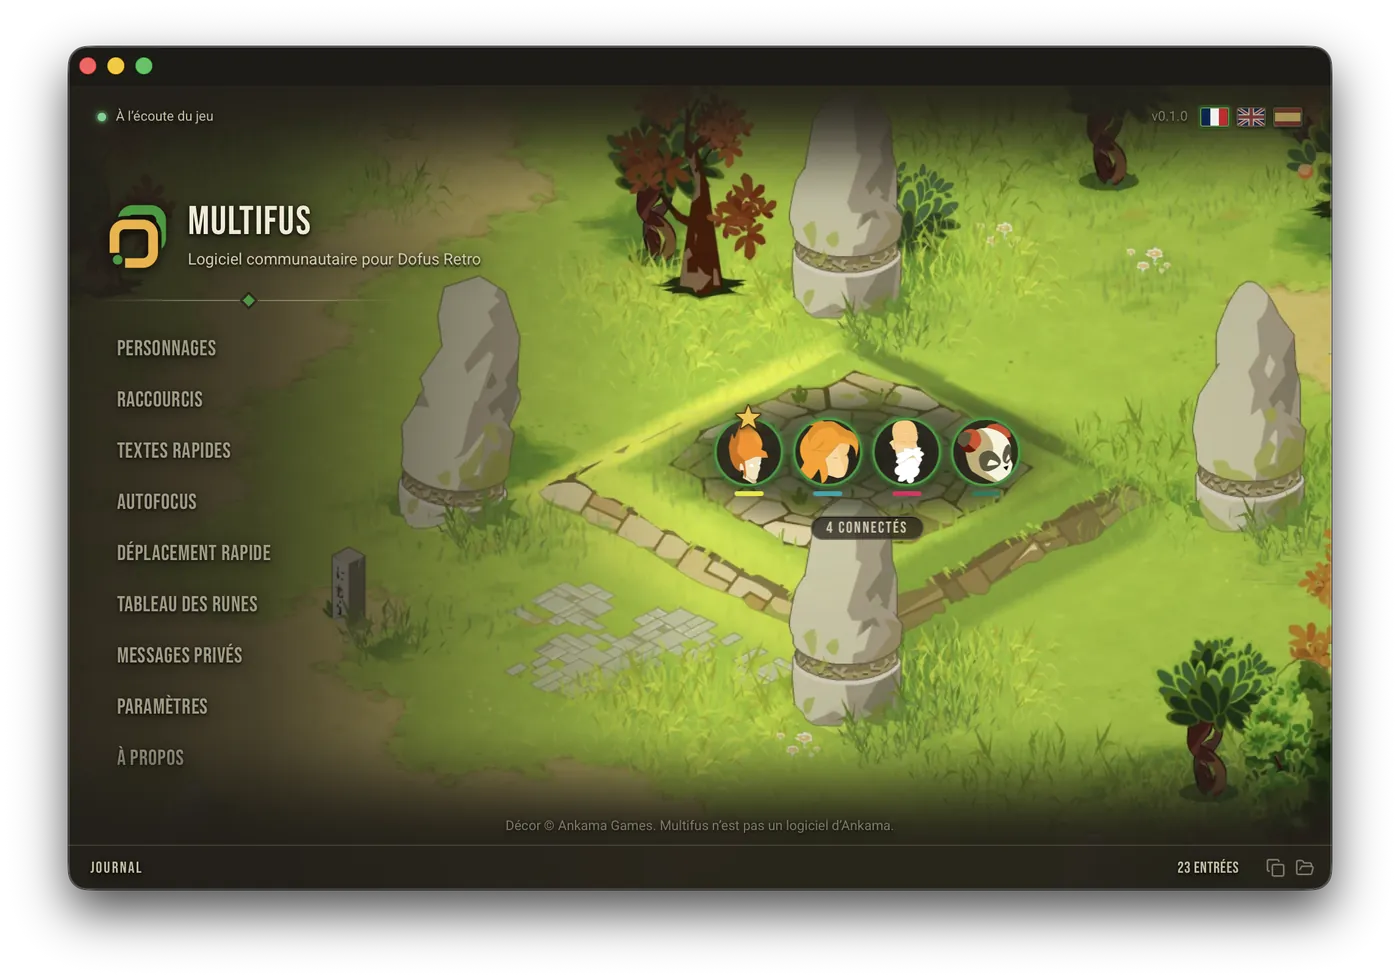
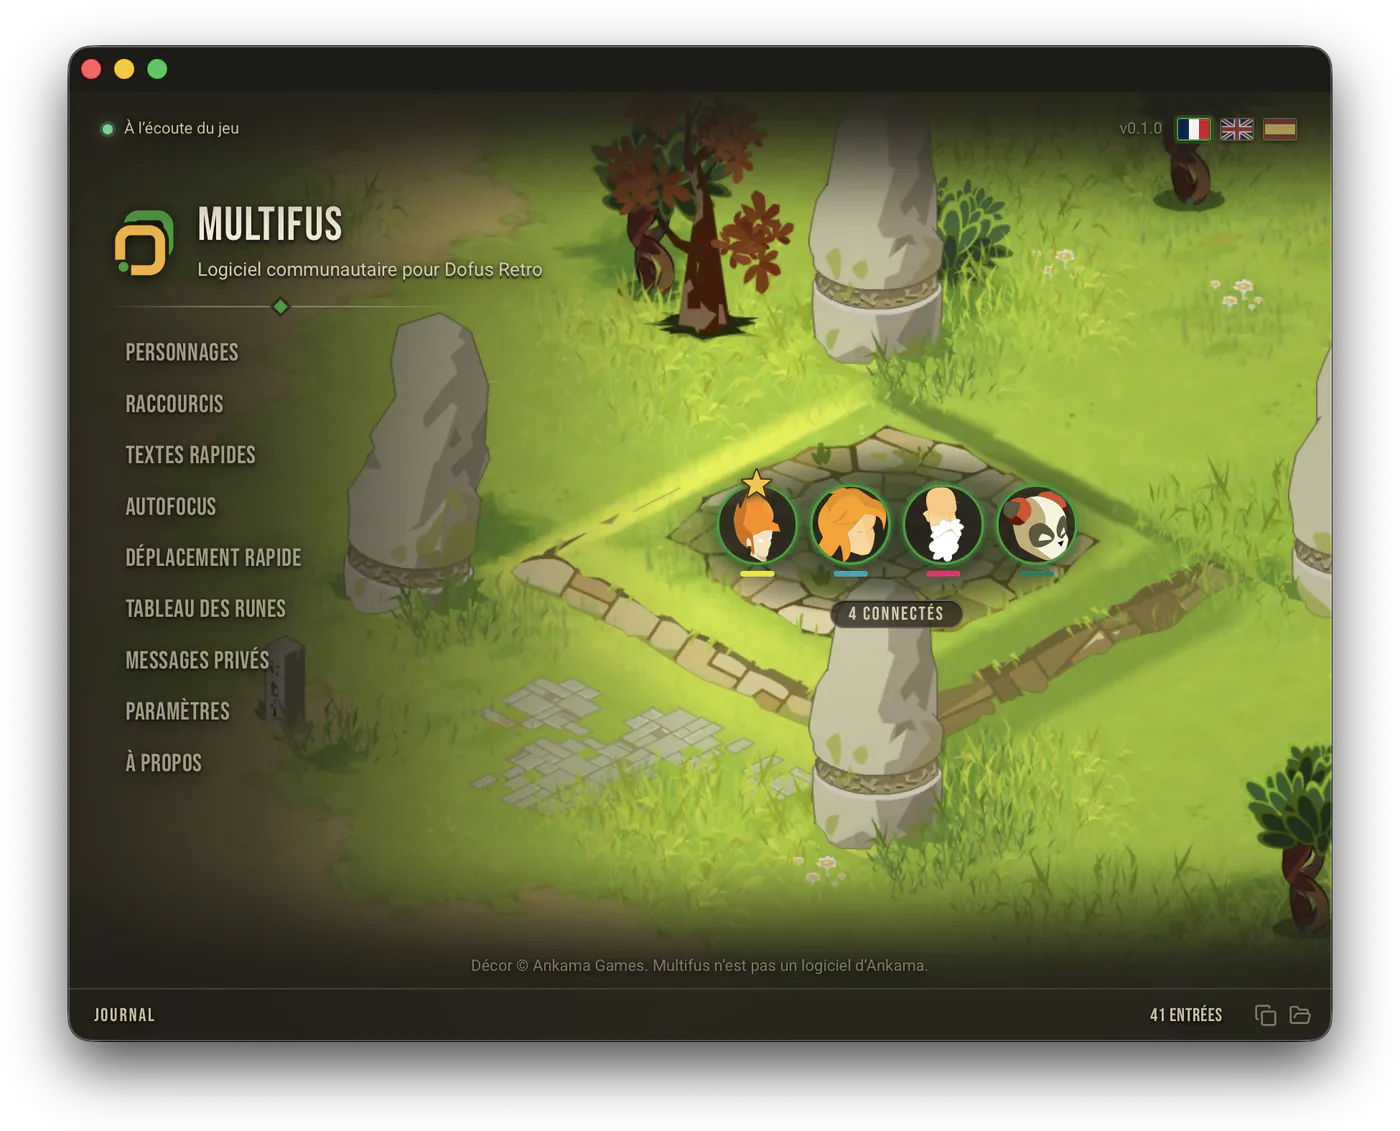
chore(website): refresh the Mac shot and drop the trade-offs section
The Mac screenshot comes from a new capture, cropped to the window with
the same margins as before. The window is taller, so MAC_SHOT now
declares 1400x1131.

The comparison page loses "Ce que Multifus laisse aux autres": those
choices are not settled yet. The two rows it commented on stay in the
table.

diff --git a/apps/website/src/screens/comparison-screen.tsx b/apps/website/src/screens/comparison-screen.tsx
@@ -15,19 +15,6 @@ import { FOLD_ANCHOR, REPOSITORY } from '@/constants/site'
 
 const HOW_READ = msg`Chaque case est lue dans le code de l’outil, jamais sur sa page d’accueil. Un outil qui garde son code fermé n’a pas de colonne ici. Et Multifus perd deux lignes, parce qu’un comparatif qu’on gagne partout ne vaut rien.`
 
-const MISSING_TITLE = msg`Ce que Multifus laisse aux autres`
-
-const MISSING_POINTS = [
-  {
-    lead: msg`Multifus ne range pas les fenêtres côte à côte.`,
-    line: msg`C’est un choix, et il ne changera pas : Multifus amène devant vous celle du personnage qui joue, il ne redessine pas votre bureau.`
-  },
-  {
-    lead: msg`Multifus ne garde qu’un seul ordre de personnages.`,
-    line: msg`Il le retient d’une session à l’autre, mais il n’en garde pas plusieurs : Dracoon et Retro Toolbox enregistrent des ordres nommés, et les rappellent d’un clic.`
-  }
-] as const satisfies readonly Point[]
-
 const CHECK_TITLE = msg`Vérifiez ce tableau vous-même`
 
 const CHECK_POINTS = [
@@ -54,10 +41,7 @@ export const ComparisonScreen = ({ page }: PageScreenProps) => {
         <Prose>{i18n._(HOW_READ)}</Prose>
         <RivalTable />
       </Band>
-      <Band className="reveal gap-10 py-rest-xs">
-        <ProseBlock level={2} title={i18n._(MISSING_TITLE)}>
-          <PointList points={MISSING_POINTS} />
-        </ProseBlock>
+      <Band className="reveal py-rest-xs">
         <ProseBlock level={2} title={i18n._(CHECK_TITLE)}>
           <PointList points={CHECK_POINTS} />
           <p className="max-w-saga text-tale text-band">

diff --git a/apps/website/src/constants/shots.ts b/apps/website/src/constants/shots.ts
@@ -17,7 +17,7 @@ export const HOME_SHOT_ALT = msg`La fenêtre de Multifus, avec le menu des fonct
 export const MAC_SHOT = {
   src: macShot,
   width: 1400,
-  height: 980
+  height: 1131
 } as const satisfies Picture
 
 export const MAC_SHOT_ALT = msg`La fenêtre de Multifus sur Mac, avec le menu des fonctionnalités à gauche et quatre personnages connectés au centre.`
